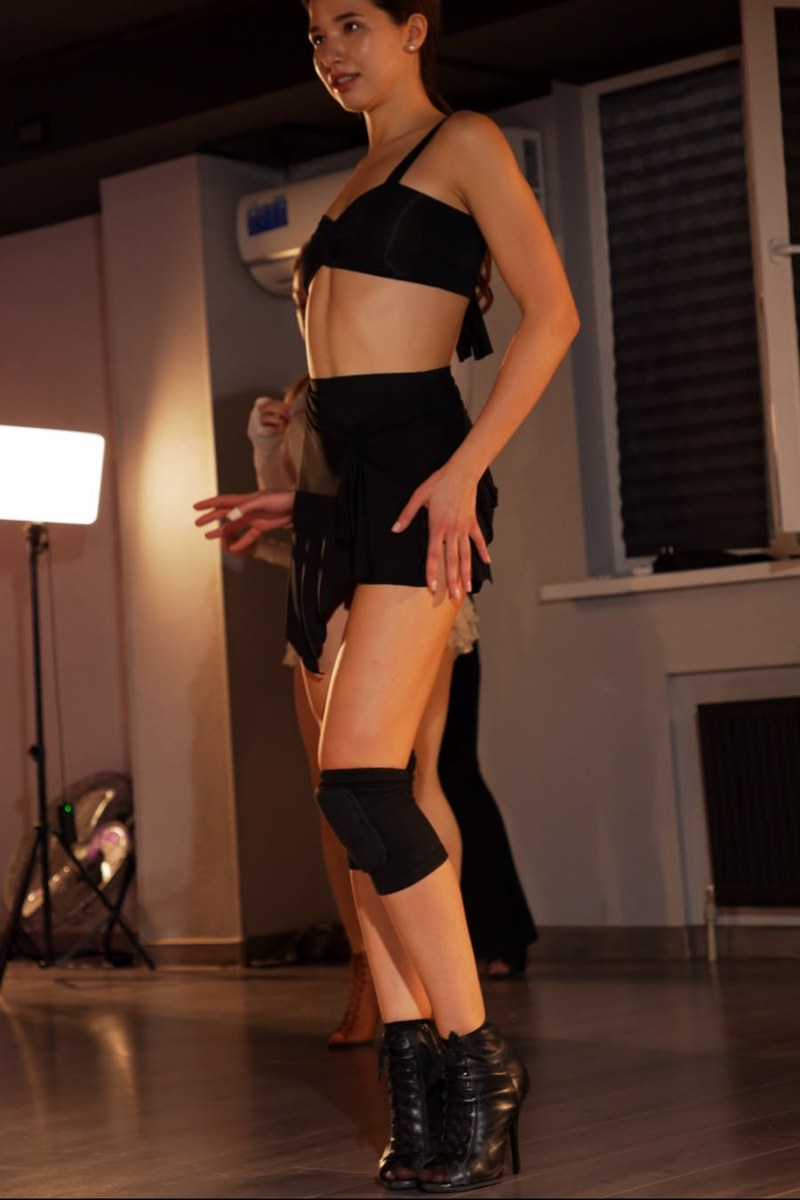
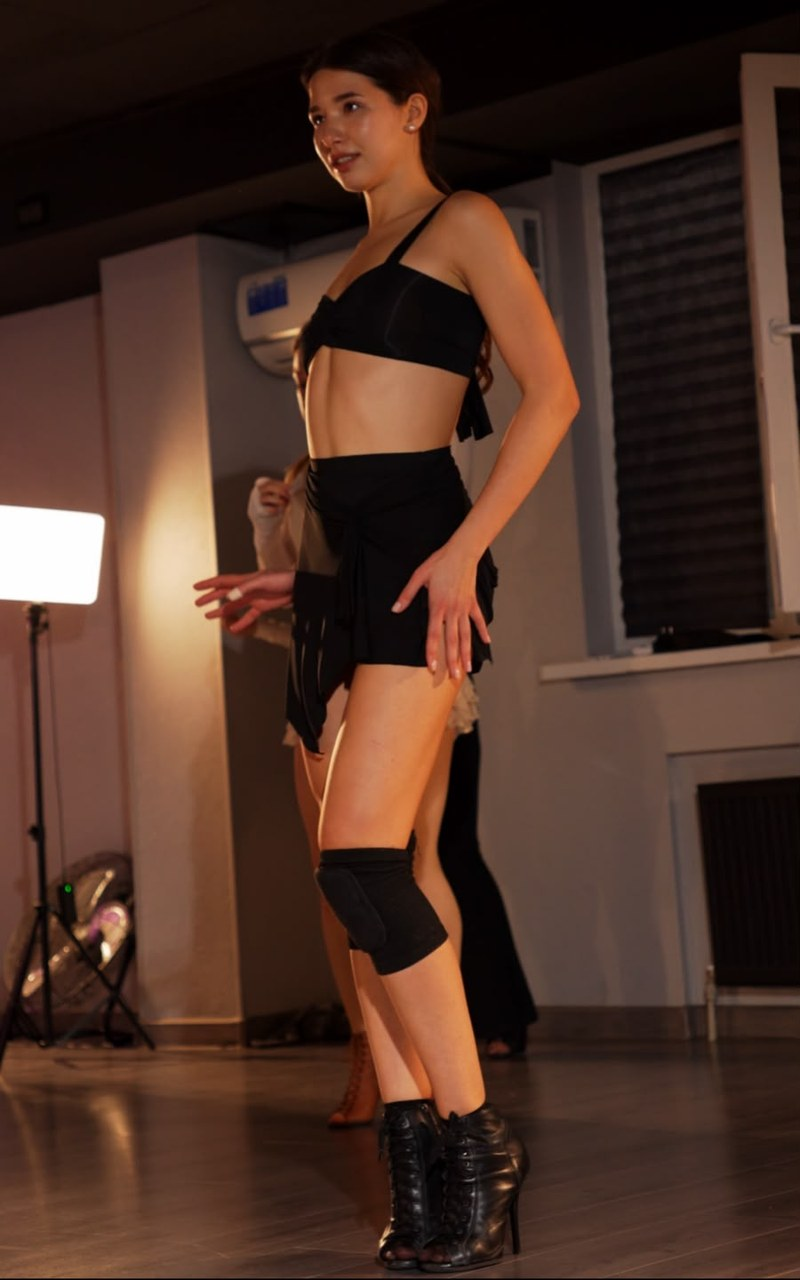
Apertura: ritaglio corretto, la testa non è più tagliata
Il ritaglio partiva 40 pixel sotto l'attaccatura dei capelli. La cornice
passa a 5:8 e la foto parte 50 pixel sopra la testa, con i tacchi dentro
l'inquadratura.

Claude-Session: https://claude.ai/code/session_01Az798zyHXqNZpkDwrEJv1s

diff --git a/index.html b/index.html
@@ -170,10 +170,10 @@ if (/^https?:$/.test(location.protocol)) {
              Con la foto vera: aggiungere class="has-media" alla figure, togliere aria-hidden dal div.hero__quadro e inserire prima del figcaption un <picture> come quello dello SLOT-02
              (file assets/img/kristina-lezione.jpg/.webp + -800, senza loading="lazy" e con fetchpriority="high": è nella prima schermata);
              alt e didascalia vivono nei dizionari (photos.alt01 da aggiungere / photos.cap01). Vedi docs/FOTO_DA_FORNIRE.md. -->
-        <figure class="hero__frame has-media" data-slot="01" data-ratio="2/3">
+        <figure class="hero__frame has-media" data-slot="01" data-ratio="5/8">
           <picture>
 <source type="image/webp" srcset="assets/img/kristina-lezione-800.webp 800w, assets/img/kristina-lezione.webp 900w" sizes="(min-width: 1024px) 22vw, 46vw">
-<img class="frame__media" src="assets/img/kristina-lezione.jpg" srcset="assets/img/kristina-lezione-800.jpg 800w, assets/img/kristina-lezione.jpg 900w" sizes="(min-width: 1024px) 22vw, 46vw" width="900" height="1350" alt="Kristina in posa sui tacchi durante una lezione di heels dance" data-i18n-attr="alt:photos.alt01" fetchpriority="high" decoding="async" style="object-position: 50% 50%">
+<img class="frame__media" src="assets/img/kristina-lezione.jpg" srcset="assets/img/kristina-lezione-800.jpg 800w, assets/img/kristina-lezione.jpg 900w" sizes="(min-width: 1024px) 22vw, 46vw" width="900" height="1440" alt="Kristina in posa sui tacchi durante una lezione di heels dance" data-i18n-attr="alt:photos.alt01" fetchpriority="high" decoding="async" style="object-position: 50% 50%">
 </picture>
 <figcaption class="cartellino"><span class="cartellino__n">n.01</span><span data-i18n="photos.cap01">Kristina — In sala</span></figcaption>
         </figure>

diff --git a/styles.css b/styles.css
@@ -1607,8 +1607,8 @@ html:not(.js) .totop { opacity: 1; visibility: visible; transform: none; }
 .frame.has-media { box-shadow: 0 1px 0 rgba(30, 28, 26, .06); }
 
 /* La cornice dell'hero segue la proporzione della foto (2:3): la figura intera, tacchi compresi */
-.hero__frame[data-ratio="2/3"] { aspect-ratio: 2 / 3; }
-.frame[data-ratio="2/3"] { aspect-ratio: 2 / 3; }
+.hero__frame[data-ratio="5/8"] { aspect-ratio: 5 / 8; }
+.frame[data-ratio="5/8"] { aspect-ratio: 5 / 8; }
 
 /* ---------- Widget di contatto (WhatsApp / Telegram) ---------- */
 .cw { position: fixed; right: 16px; bottom: 16px; z-index: 46; display: flex; flex-direction: column; align-items: flex-end; gap: 10px; }
